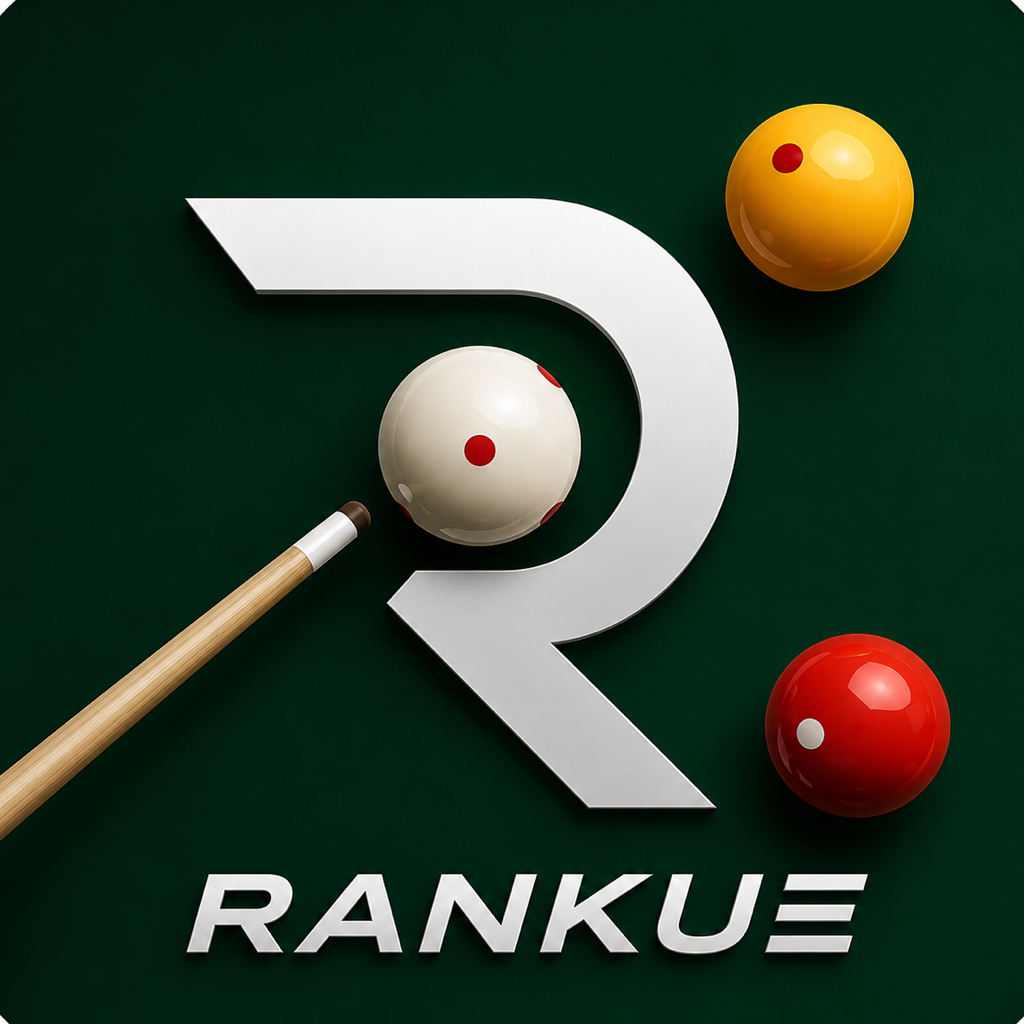
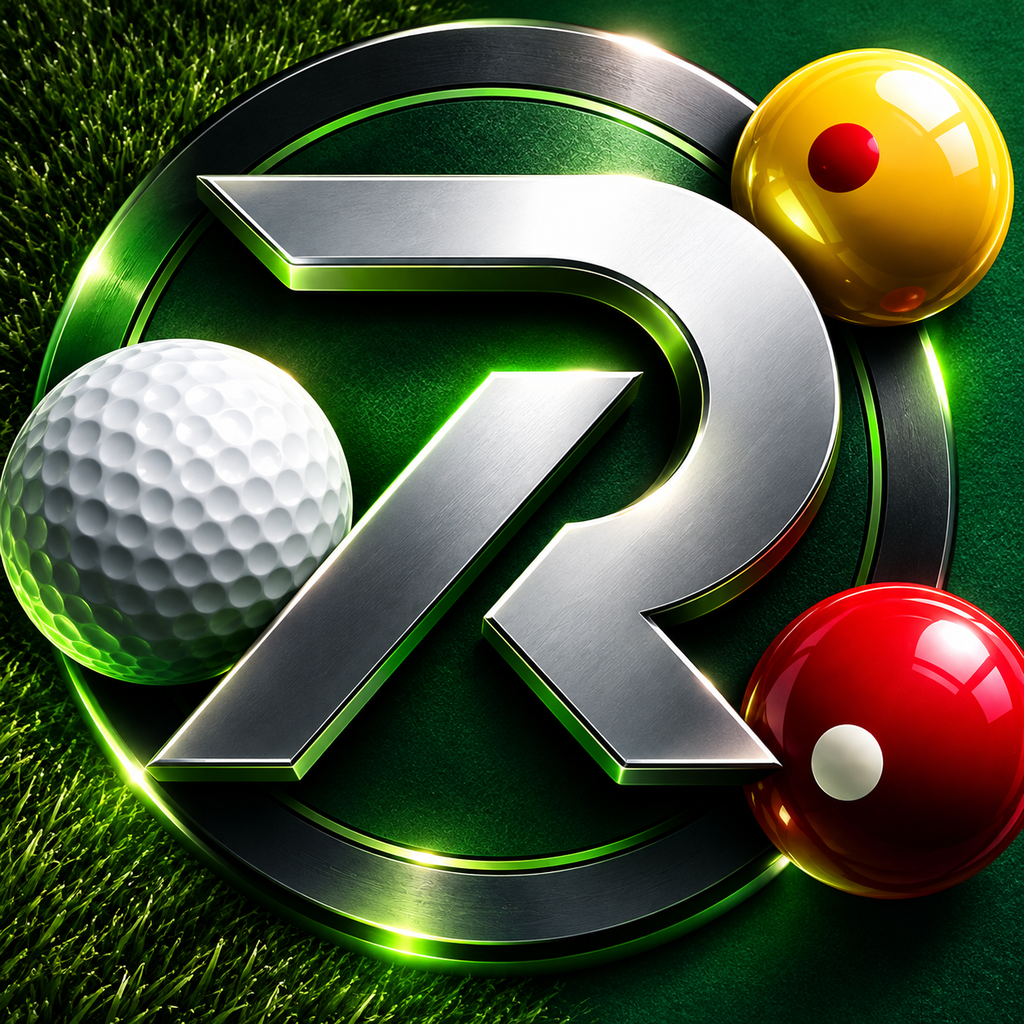
docs(store): 크루 중심 스토어 문구로 개편 기록, 스토어 아이콘을 새 아이콘으로
오너 방향(2026-09-11): 당구가 기본인 스포츠 크루 앱. Play 는 오너가 직접 반영한 실제 값을,
App Store 는 1.2 버전에 저장한 값(영어·한국어 이름·부제·키워드·프로모션, 5개 언어 설명·업데이트 사항)을 적었다.
골프는 앱에서 비공개라 스토어 문구에서 뺐다(예전 설명의 '골프 모드도 제공' 문장 삭제) — 공개하는 버전에서 넣는다.
심사 노트는 소셜 로그인(구글·애플)과 UGC 대응을 반영한 1.2용 초안으로 바꿨다(UGC 문단은 웹 작업 배포 후 확정).

diff --git a/store/listing.md b/store/listing.md
@@ -1,95 +1,103 @@
-# 랭큐(RANKUE) 스토어 등록 정보 (한국 전용) — 당구 버전
+# 랭큐(RANKUE) 스토어 등록 정보 (한국 전용) — 당구 기반 스포츠 크루 앱
 
-공통: 개인정보처리방침 URL = https://www.rankue.co.kr/privacy (⚠ 라우트는 코드에 있으나 프로덕션 미배포 — 현재 SPA 404. 제출 전 배포 필수) · 지원 이메일 = petudy@kakao.com
+2026-09-11 개편: 오너 방향 "크루 중심 — 당구가 기본, 스포츠 크루 느낌". **골프는 앱에서 비공개라 스토어 문구에 쓰지 않는다**
+(심사관이 볼 수 없는 기능을 적으면 Apple 2.3.1 · Play 오해의 소지 정책 위반). 골프를 공개하는 버전에서 골프 문구를 넣는다.
+
+공통: 개인정보처리방침 URL = https://www.rankue.co.kr/privacy · 이용약관 URL = https://www.rankue.co.kr/terms (심사 전 웹 작업 배포 후) · 지원 = https://www.rankue.co.kr/support · 지원 이메일 = petudy@kakao.com
 번들/패키지: com.rankue.app (iOS·Android 동일)
-스크린샷: 애플 `store/screenshots/out/ko/` (1284×2778, 5장) · 플레이 `store/screenshots/out-play/ko/` (1080×2160, 5장) + `store/screenshots/out-play/feature-graphic.png` (1024×500)
-아이콘: `store/icon-1024.png` (App Store) · `store/icon-512.png` (Play)
+스크린샷: 애플 `store/screenshots/out/ko/` (1284×2778, 5장) · 플레이 `store/screenshots/out-play/ko/` (1080×2160, 5장) + `store/screenshots/out-play/feature-graphic.png` (1024×500) — 크루 중심 화면으로 바꾸면 더 좋다(미정)
+아이콘: `store/icon-1024.png` (App Store) · `store/icon-512.png` (Play) — 2026-09-11 새 아이콘(금속 R + 골프공·당구공)으로 교체
 데모 계정: 전화번호 **01012349876** — 랜딩에서 번호만 입력하면 로그인(비번·SMS 없음, hiq 스토어). 표시 이름 "김성준", 시드 전적 3승 1패 세팅됨(2026-07).
 
 ---
 
-## Google Play
+## Google Play (2026-09-11 오너가 콘솔에 직접 반영 — 아래가 실제 값)
 
-**앱 이름** (30자): 랭큐 - 당구 실력 랭킹·경기 기록
-**짧은 설명** (80자): RP 레이팅으로 당구 실력 증명. 경기 자동 기록, 실력 맞는 라이벌·크루 매칭, 매장 랭킹까지.
+**앱 이름** (30자): 랭큐 - 당구.스포츠 크루·점수판·경기 기록
+**짧은 설명** (80자): 같이 치는 사람들이 있어야 운동이 즐겁습니다. 랭큐는 당구 크루의 모임부터 경기 점수·기록·랭킹까지 한 앱에서 챙겨 주는 스포츠 크루 앱입니다.
 **카테고리**: **스포츠**
-**태그**: 당구, 스포츠, 랭킹
+**태그**: 당구, 스포츠, 크루
 
 **전체 설명** (4000자 이내):
 
-랭큐 RANKUE — 당구 실력 랭킹 & 매칭
-
-오늘 친 경기, 점수만 확인하고 잊어버리시나요?
-랭큐는 경기를 치는 순간 전적·애버리지·랭킹까지 자동으로 정리해 주는 당구 앱입니다.
-
-■ RP 레이팅 — 내 당구 실력 증명
-- 3쿠션·4구 종목별 RP(랭킹 포인트)와 티어(브론즈-실버-골드-플래티넘)
-- 이길수록 오르는 레이팅, 내가 매장 상위 몇 %인지 한눈에
-- 애버리지·하이런·승률로 보는 정확한 내 실력
-
-■ 경기 자동 기록 — 점수판이 곧 성적표
-- 실시간 스코어보드에 점수를 치면 경기가 그대로 기록됩니다
-- 이닝·득점·하이런·애버리지 자동 계산
-- 혼자 연습 모드부터 공식 매치까지, 공식 경기 성적표로 축적
-
-■ 실력 맞는 상대와 매칭
-- 초대 코드로 함께 치는 상대를 불러 1:1 랭킹 경기
-- 라이벌 등록 — 상대 전적(승패·애버리지)을 한눈에
-- 최근에 만난 상대를 라이벌 리스트로 관리
-
-■ 매장 랭킹
-- 내 당구장(매장)의 실시간 상위 랭킹
-- 3쿠션·4구 탭으로 나눠 보는 순위 경쟁
-- 경기 기록이 쌓이면 순위에 자동 반영
-
-■ 크루 — 함께 치는 당구 모임
-- 지역·종목 기반 크루 개설과 가입
+■ 크루 — 우리 모임의 모든 것
+- 지역별 크루를 만들고 가입하기
 - 크루 게시판·사진첩·투표·채팅으로 모임 운영
+- 정모 일정과 알림, 크루 안 랭킹과 대회(대진표)
+- 새 소식과 대결 신청을 알림으로 바로
 
-■ 랭큐 AI 솔루션
-- 당구대 위 공 배치를 화면에 그대로 옮기면 최적 공략 검색
-- 초크 데이터 기반으로 성공 확률 높은 경로 추천
-- 온라인 대전 — 시뮬레이터로 겨루는 연습 대결
+■ 손안의 점수판
+- 테이블 옆에 폰을 두고 점수만 누르면 경기가 기록됩니다
+- 이닝·득점·하이런·애버리지 자동 계산
+- 경기 중에는 화면이 꺼지지 않아요
 
-골프 모드(스코어 기록)도 함께 제공됩니다.
+■ 기록과 랭킹
+- 3쿠션·4구 종목별 전적과 애버리지
+- 레이팅과 티어로 보는 내 실력, 크루·매장 랭킹
+- 친구·라이벌과의 상대 전적
 
-랭큐는 휴대폰 번호만으로 간편하게 시작합니다.
+■ 당구장 찾기와 온라인 대전
+- 가까운 당구장과 매장별 랭킹
+- 시뮬레이터로 겨루는 온라인 대결, 공 배치를 옮기면 추천 공략을 보여 주는 AI 솔루션
+
+당구에서 시작해, 더 많은 스포츠 크루가 함께 쓰는 기록 앱으로 넓혀 가고 있습니다.
+
+휴대폰 번호나 간편 로그인으로 바로 시작하세요.
 문의: petudy@kakao.com
 
-**데이터 보안 섹션(설문) 메모**:
-- 수집: 전화번호(계정·로그인), 이름/닉네임(프로필), 앱 상호작용, 사진(선택 — 크루 사진첩 업로드에만 사용), 푸시 토큰(FCM)
-- 공유: 없음 / 암호화 전송: 예 / 삭제 요청 가능: 예
-- 광고 ID: **아니요** (AndroidManifest에서 `AD_ID` tools:node="remove" 처리됨 — mapix와 동일 패턴, 프로덕션 제출 시 '아니요' 선언)
+**데이터 보안 섹션(설문) 메모** — 1.2.0 기준으로 다시 맞출 것:
+- 수집: 전화번호(계정·로그인), 이메일·이름(구글·애플 로그인 시), 닉네임(프로필), 사진(선택 — 프로필·크루·게시글 업로드), **위치(대략·정밀 — '내 주변' 당구장·크루 거리순, 크루 활동 위치 등록)**, 게시글·댓글·채팅(사용자 콘텐츠), 앱 상호작용, 기기 ID(푸시 토큰 FCM)
+- 공유: 없음 / 암호화 전송: 예 / 삭제 요청 가능: 예(앱 안 계정 삭제 + 지원 이메일)
+- 광고 ID: **아니요** (AndroidManifest 에서 AD_ID·ADSERVICES 권한 제거, 페이스북 SDK 도 1.2.0 에서 제거)
 
 ---
 
-## App Store
+## App Store (2026-09-11 1.2 버전에 반영·저장 — 심사 제출 전)
 
-**이름** (30자): 랭큐 RANKUE
-**부제** (30자): 당구 실력 랭킹·경기 기록
-**프로모션 텍스트** (170자): 오늘 친 경기가 그대로 내 레이팅이 됩니다. 3쿠션·4구 RP 레이팅, 경기 자동 기록, 실력 맞는 라이벌·크루 매칭, 매장 랭킹까지 — 당구를 제대로 즐기는 법, 랭큐.
-**키워드** (100자, 쉼표): 당구,3쿠션,4구,당구장,랭킹,경기기록,전적,애버리지,하이런,크루,라이벌,매칭,레이팅,스코어보드,당구동호회,핸디,다마
-**카테고리**: 기본 **스포츠** / 보조 라이프스타일
+기본 언어 **영어(미국)**, 현지화 5개: 영어(미국)·한국어·베트남어·스페인어(스페인)·튀르키예어.
+앱 정보(이름·부제)는 다음 출시 버전(1.2)과 함께 적용된다. 베트남어·스페인어·튀르키예어의 이름·부제·키워드는 예전 그대로.
 
-**설명**: (Play 전체 설명과 동일 — ■ 헤더 그대로 사용 가능)
+| | 영어(미국) | 한국어 |
+|---|---|---|
+| 이름 (30자) | RANKUE: Billiards Crew & Score | 랭큐 - 당구.스포츠 크루·점수판·경기 기록 |
+| 부제 (30자) | Crews, scoreboard & records | 함께 치는 크루의 모임과 기록 |
+| 예전 이름 / 부제 | RANKUE – Billiards Ranking / 3-cushion & 4-ball scoreboard | 랭큐 RANKUE / 당구 점수판. 실력 랭킹·경기 기록 |
+| 키워드 | billiards,carom,3-cushion,crew,club,scoreboard,match,record,ranking,average,rival,pool hall,sports | 당구,3쿠션,4구,크루,동호회,모임,정모,점수판,스코어보드,경기기록,전적,애버리지,랭킹,라이벌,당구장,스포츠 |
 
-**심사 노트(Review Notes) — 영문**:
+**프로모션 텍스트**
+- 영어: Play with your crew, and your scores are recorded automatically. Scoreboard, match records, crew board and meetup alerts — all in one app.
+- 한국어: 크루와 함께 치고, 점수는 자동으로. 점수판·경기 기록·크루 게시판과 정모 알림까지 — 함께 치는 즐거움, 랭큐.
+- 베트남어·스페인어·튀르키예어: 같은 뜻으로 번역해 넣음
 
-> RANKUE is a billiards (carom: 3-cushion / 4-ball) skill-rating, match-recording and ranking service for Korean billiards players.
+**설명**: 5개 언어 모두 크루 중심 문구로 교체(한국어 = Play 짧은 설명 + 전체 설명, 나머지는 그 번역). 예전 설명 끝의 "골프 모드도 함께 제공" 문장은 모든 언어에서 삭제.
+**이 버전의 업데이트 사항**: 5개 언어 — 새 아이콘·알림 아이콘 / 앱을 켜 둔 중에도 알림 / 공유 링크가 앱에서 열림 / 오프라인 안내·복귀 / 경기 중 화면 켜짐 / 안정성 개선
+**빌드**: 1.2 (7) 연결됨
+**카테고리**: 기본 스포츠 / 보조 라이프스타일
+
+**심사 노트(Review Notes) — 영문, 1.2 제출용** (예전 노트의 "소셜 로그인 없음"은 이제 틀림):
+
+> RANKUE is a crew (club) app for billiards players (carom: 3-cushion / 4-ball): crews manage their meetups, and members record matches with an in-app scoreboard, see averages/rankings, and challenge friends.
 >
-> Sign-in: users sign in with a Korean phone number only — no SMS verification and no password for this store. There is NO third-party or social login (no Google/Apple/Facebook sign-in), so the "Sign in with Apple" requirement (Guideline 4.8) does not apply.
+> Sign-in: Korean phone number, Google Sign-In, and Sign in with Apple (iOS). Sign in with Apple is offered alongside Google, per Guideline 4.8.
 >
-> DEMO ACCOUNT for review: on the first screen, enter the phone number 01012349876 and tap the arrow button. You will be signed in immediately as a demo member ("김성준") with pre-populated match records, ratings and rivals — no SMS code or password is required.
+> DEMO ACCOUNT for review: on the first screen, enter the phone number 01012349876 and tap the arrow button. You will be signed in immediately as a demo member ("김성준") with pre-populated match records — no SMS code or password is required.
 >
-> After signing in, the main billiards screens are: /dashboard (RP rating, tier, win-loss record, store ranking), /history (official match records and averages), /friends (rival list with head-to-head records), /simulation (AI shot solution on a billiard table), /club (crews / clubs).
+> Main screens after sign-in: /dashboard (records, ranking), /club (crews: board, gallery, polls, chat), /history (match records), /friends (rivals), /online-game (simulator matches).
 >
-> Native capabilities: push notifications (FCM/APNs) for match and crew updates; photo upload (optional) for crew photo albums.
+> User-generated content (Guideline 1.2): users must agree to the Terms of Use (https://www.rankue.co.kr/terms, zero tolerance for objectionable content) before posting. Every post, comment, photo, chat message and profile has Report and Block; reports are reviewed by our moderators within 24 hours (admin queue + push alert), and objectionable text is filtered on submission. [웹 작업 배포 후 실제 동작 확인하고 이 문단 확정]
 >
-> Account deletion: available in-app (전체 메뉴 → 계정) and via support email petudy@kakao.com.
+> Native capabilities: push notifications (match invitations, crew updates), location while using the app (nearby billiard halls and crews, optional), camera/photo library for optional uploads, share sheet, haptics, screen kept awake during live scoring, universal links for shared links.
+>
+> Account deletion: in-app (전체 메뉴 → 계정 삭제) and via support email petudy@kakao.com.
 
 **수출 규정(암호화)**: ITSAppUsesNonExemptEncryption = false (HTTPS 표준만 사용)
 
 ---
+
+## 1.2 진행 현황 (2026-09-11)
+- Android 1.2.0(versionCode 5): Play **내부 테스트** 게시 17:31, 오너 실기기 확인(푸시·아이콘·위치). 경고: 지원 제외 기기 6대(0.03%, 원인 미확인).
+- iOS 1.2(빌드 7): App Store Connect 업로드 17:52, 처리 완료 → 1.2 버전 생성·빌드 연결·문구 5개 언어 저장(심사 제출은 아직).
+- 제출 전: 심사 전 웹 작업(크루 신고·차단·필터, 관리자 신고 목록, 약관 동의, 앱에서 파트너 유료 구독 숨김, '#내기환영' 제거) 배포 → 위 심사 노트 UGC 문단 확정.
 
 ## 내부 테스트 진행 순서 메모
 1. Play Console → 앱 만들기(한국어, 무료, 카테고리 스포츠) → **내부 테스트** 트랙에 `app-release.aab` 업로드 → 테스터 이메일 목록 추가 → 링크 공유
